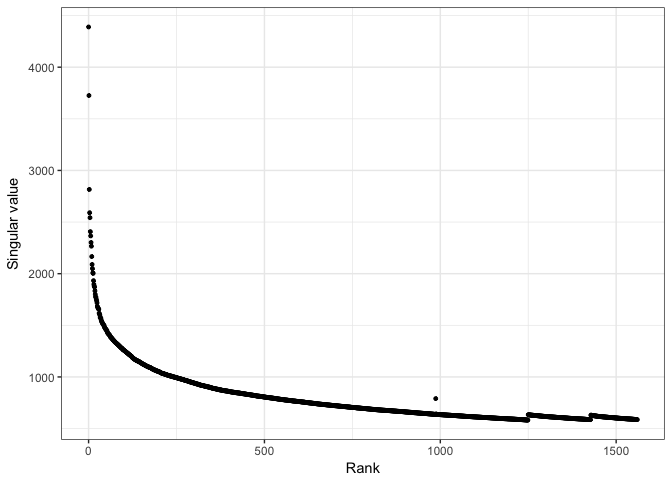
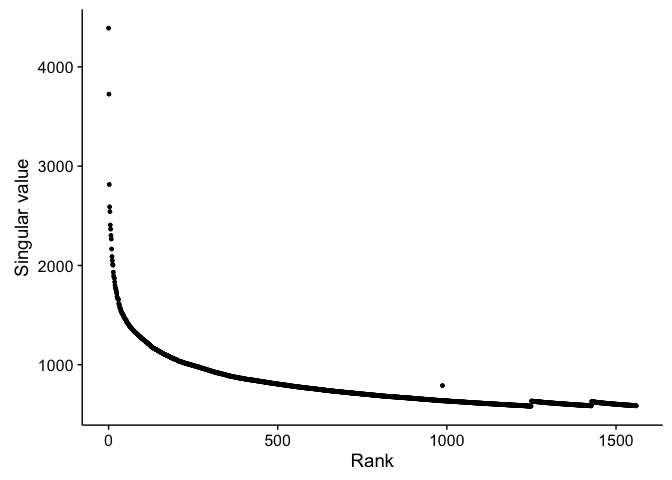
Update figures to be publication-ready, fix legend

diff --git a/Graph_Sparsification/Result/big_matrix_sampling_tfidf/big_matrix_sampling.md b/Graph_Sparsification/Result/big_matrix_sampling_tfidf/big_matrix_sampling.md
@@ -14,6 +14,7 @@ This is for examinig the data to prepare for SVD on the big 13-million-abstract 
 
 ```r
 library(ggplot2)
+library(cowplot)
 library(plyr) # note to self: load this before dplyr always. 
 library(dplyr)
 ```
@@ -42,7 +43,7 @@ head(singular_value)
 First let's plot the error 
 
 ```r
-ggplot(singular_value, aes(x = rank, y = error_estimate)) + geom_point(size=1, alpha=0.5) + ylab("Error estimate") + xlab("Rank") + theme_bw() 
+ggplot(singular_value, aes(x = rank, y = error_estimate)) + geom_point(size=1, alpha=0.5) + ylab("Error estimate") + xlab("Rank")
 ```
 
 ![](big_matrix_sampling_files/figure-html/error_estimates-1.png)<!-- -->
@@ -63,7 +64,7 @@ nsv
 Plotting the singular value
 
 ```r
-ggplot(singular_value, aes(x = rank, y = singular_value)) + geom_point(size=1) + ylab("Singular value") + xlab("Rank") + theme_bw() 
+ggplot(singular_value, aes(x = rank, y = singular_value)) + geom_point(size=1) + ylab("Singular value") + xlab("Rank") 
 ```
 
 ![](big_matrix_sampling_files/figure-html/singular_value_plot-1.png)<!-- -->
@@ -104,7 +105,7 @@ nsv
 ### singular values 
 
 ```r
-ggplot(singularval_fullmatrix, aes(x = rank, y = singular_value)) + geom_point(size=1) + ylab("Singular value") + xlab("Rank") + theme_bw() 
+ggplot(singularval_fullmatrix, aes(x = rank, y = singular_value)) + geom_point(size=1) + ylab("Singular value") + xlab("Rank")
 ```
 
 ![](big_matrix_sampling_files/figure-html/singular_value_plot_fullmatrix-1.png)<!-- -->
@@ -120,7 +121,7 @@ The number of singular values measured to be useable are 529.
 singular_value$matrix <- factor("sampled matrix")
 singularval_fullmatrix$matrix <- factor("full matrix")
 svals <- rbind(singularval_fullmatrix, singular_value)
-ggplot(svals, aes(x = rank, y = singular_value, colour=matrix)) + geom_point(size=1) + ylab("Singular value") + xlab("Rank") + theme_bw() + theme(legend.title=element_blank())
+ggplot(svals, aes(x = rank, y = singular_value, colour=matrix)) + geom_point(size=1) + ylab("Singular value") + xlab("Rank") + theme(legend.title=element_blank())
 ```
 
 ![](big_matrix_sampling_files/figure-html/compare_svals-1.png)<!-- -->
@@ -145,7 +146,7 @@ sampled_100X_0.01_2000nsv_cov$matrix <- factor("sampled matrix")
 full_matrix_1000nsv_cov$matrix  <- factor("full matrix")
 coverage <- rbind(sampled_100X_0.01_2000nsv_cov, full_matrix_1000nsv_cov)
 
-ggplot(coverage, aes(x = nsv, y = coverage, colour=matrix)) + geom_point(size=1) + ylab("coverage") + xlab("# singular values") + theme_bw() + theme(legend.title=element_blank())
+ggplot(coverage, aes(x = nsv, y = coverage, colour=matrix)) + geom_point(size=1) + ylab("coverage") + xlab("# singular values") + theme(legend.title=element_blank())
 ```
 
 ![](big_matrix_sampling_files/figure-html/coverage_graph-1.png)<!-- -->
@@ -163,7 +164,7 @@ I repeated the previous step on the full matrix but this time with more singular
 
 ```r
 svals_full <- read.table("sVals_full_matrix_2000.summary", header=TRUE)
-ggplot(svals_full, aes(x = rank, y = error_estimate)) + geom_point(size=1, alpha=0.5) + ylab("Error estimate") + xlab("Rank") + theme_bw()
+ggplot(svals_full, aes(x = rank, y = error_estimate)) + geom_point(size=1, alpha=0.5) + ylab("Error estimate") + xlab("Rank") 
 ```
 
 ![](big_matrix_sampling_files/figure-html/unnamed-chunk-2-1.png)<!-- -->
@@ -181,7 +182,7 @@ nsv
 
 
 ```r
-ggplot(svals_full, aes(x = rank, y = singular_value)) + geom_point(size=1) + ylab("Singular value") + xlab("Rank") + theme_bw()
+ggplot(svals_full, aes(x = rank, y = singular_value)) + geom_point(size=1) + ylab("Singular value") + xlab("Rank") 
 ```
 
 ![](big_matrix_sampling_files/figure-html/unnamed-chunk-3-1.png)<!-- -->
@@ -193,7 +194,7 @@ Singular values
 ```r
 svals_full$matrix <- factor("full matrix")
 svals <- rbind(svals_full, singular_value)
-ggplot(svals, aes(x = rank, y = singular_value, colour=matrix)) + geom_point(size=1) + ylab("Singular value") + xlab("Rank") + theme_bw() + theme(legend.title=element_blank())
+ggplot(svals, aes(x = rank, y = singular_value, colour=matrix)) + geom_point(size=1) + ylab("Singular value") + xlab("Rank") + theme(legend.title=element_blank())
 ```
 
 ![](big_matrix_sampling_files/figure-html/unnamed-chunk-4-1.png)<!-- -->
@@ -201,7 +202,7 @@ ggplot(svals, aes(x = rank, y = singular_value, colour=matrix)) + geom_point(siz
 Error estimates
 
 ```r
-ggplot(svals, aes(x = rank, y = error_estimate, colour=matrix)) + geom_point(size=1, alpha=0.5) + ylab("Error estimate") + xlab("Rank") + theme_bw() + theme(legend.title=element_blank())
+ggplot(svals, aes(x = rank, y = error_estimate, colour=matrix)) + geom_point(size=1, alpha=0.5) + ylab("Error estimate") + xlab("Rank") + theme(legend.title=element_blank())
 ```
 
 ![](big_matrix_sampling_files/figure-html/unnamed-chunk-5-1.png)<!-- -->
@@ -211,9 +212,9 @@ Coverage
 ```r
 full_matrix_2000nsv_cov <- read.table("nsv_coverage_full_matrix_tfidf2000.result", header=TRUE)
 full_matrix_2000nsv_cov$matrix  <- factor("full matrix")
-coverage <- rbind(sampled_100X_0.01_2000nsv_cov, full_matrix_2000nsv_cov)
+coverage <- rbind(full_matrix_2000nsv_cov, sampled_100X_0.01_2000nsv_cov)
 
-ggplot(coverage, aes(x = nsv, y = coverage, colour=matrix)) + geom_point(size=1) + ylab("coverage") + xlab("# singular values") + theme_bw() + theme(legend.title=element_blank())
+ggplot(coverage, aes(x = nsv, y = coverage, colour=matrix)) + geom_point(size=1) + ylab("coverage") + xlab("# singular values")  + theme(legend.title=element_blank())
 ```
 
 ![](big_matrix_sampling_files/figure-html/unnamed-chunk-6-1.png)<!-- -->
